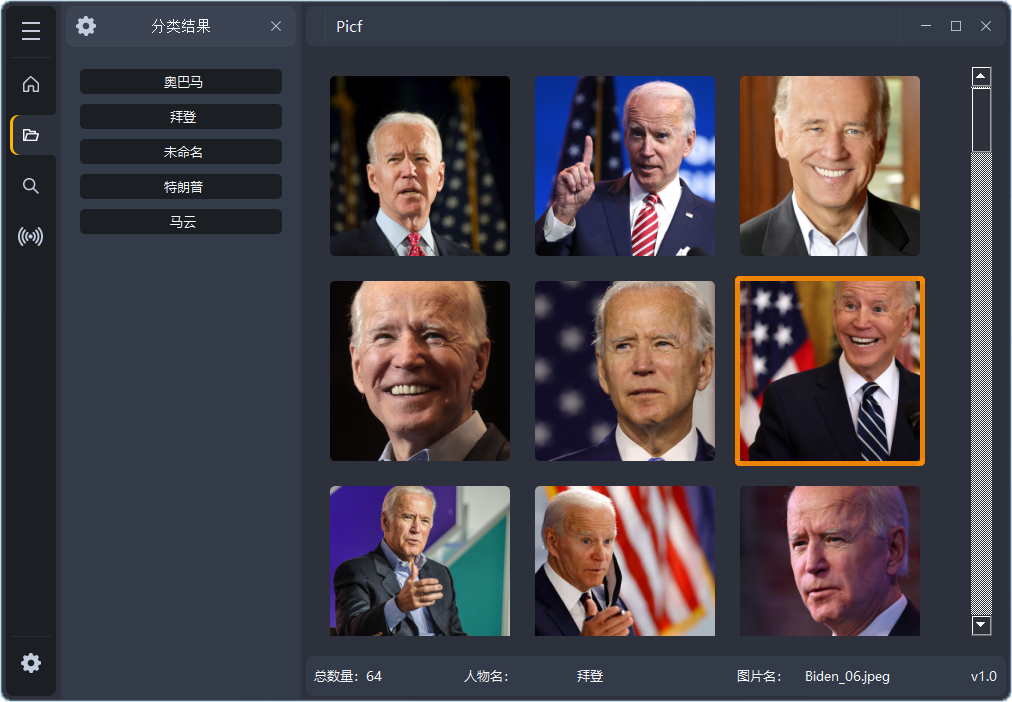
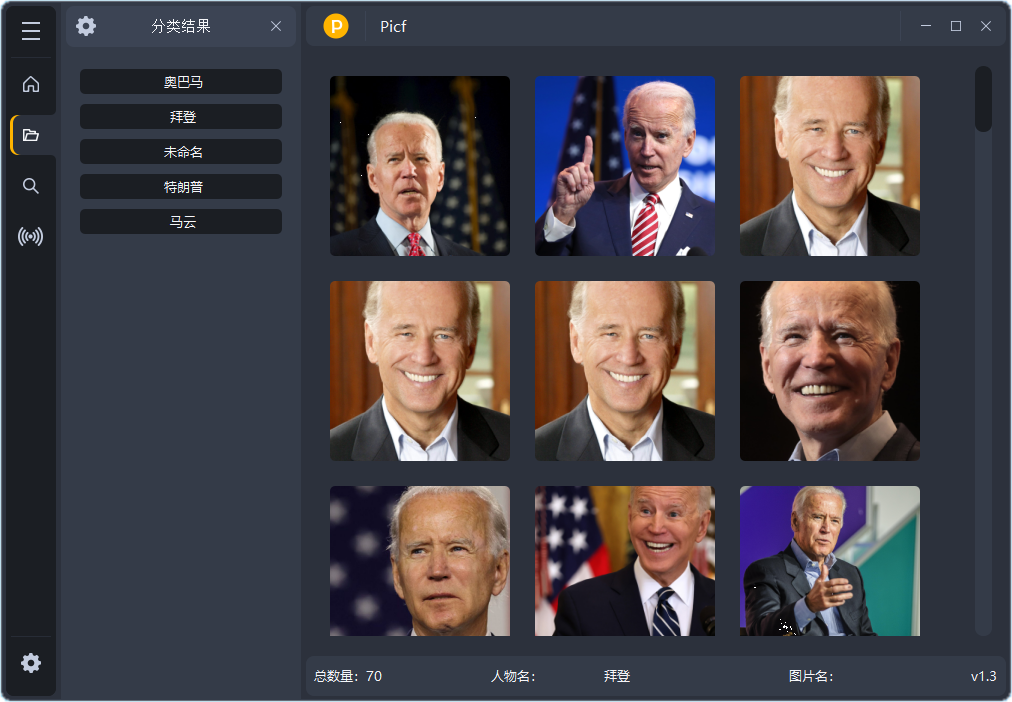
#93 解决了issue #2 #4 的问题，更新了 README.md 的图片

diff --git a/gui/uis/windows/main_window/functions_main_window.py b/gui/uis/windows/main_window/functions_main_window.py
@@ -222,7 +222,7 @@ class MainFunctions():
             QApplication.processEvents()
         #self.image_dic[name].setParent(self.ui.load_pages.gridLayout_2)
         self.ui.load_pages.gridLayout_2.addWidget(self.image_dic[name])
-        self.ui.load_pages.scrollArea.setVerticalScrollBarPolicy(Qt.ScrollBarAsNeeded)
+        #self.ui.load_pages.scrollArea_1.setVerticalScrollBarPolicy(Qt.ScrollBarAsNeeded)
 
     def load_images(self, paths, image_page):
         for count, path in enumerate(paths):
@@ -299,27 +299,36 @@ class MainFunctions():
             self.ui.credits.image.setText("")
             self.ui.credits.image_title.setText("")
             return None
+        else:
+            name, paths = tuple(self.person_search_result.items())[0]
+            self.ui.credits.copyright_label.setText("总数量：{}".format(len(paths)))
+            self.ui.credits.person.setText("人物名：")
+            self.ui.credits.person_name.setText(name)
+            self.ui.credits.person_name.setFocusPolicy(Qt.NoFocus)
+            self.ui.credits.person_name.setReadOnly(True)
+            self.ui.credits.image.setText("图片名：")
+            self.ui.credits.image_title.setText("")
         
         if not self.search_changed:
             return None
 
         self.search_changed = False
         try:
-            self.scrollArea_4_WidgetContents.setParent(None)
-            #self.ui.load_pages.scrollArea_4.removeWidget(self.scrollArea_4_WidgetContents)
+            self.scrollArea_2_WidgetContents.setParent(None)
+            self.ui.load_pages.scrollArea_2.removeWidget(self.scrollArea_2_WidgetContents)
         except AttributeError:
             pass
 
-        self.scrollArea_4_WidgetContents = QWidget()
-        self.scrollArea_4_WidgetContents.setObjectName(u"scrollArea_4_WidgetContents")
-        self.scrollArea_4_WidgetContents.setGeometry(QRect(0, 0, 100, 30))
-        self.scrollArea_4_WidgetContents.setStyleSheet(u"background: transparent;")
-        self.scrollArea_4_layout = QVBoxLayout(self.scrollArea_4_WidgetContents)
-        self.scrollArea_4_layout.setSpacing(0)
-        self.scrollArea_4_layout.setObjectName(u"verticalLayout")
-        self.scrollArea_4_layout.setContentsMargins(0, 0, 0, 0)
-        self.ui.load_pages.scrollArea_4.setWidget(self.scrollArea_4_WidgetContents)
-        #self.scrollArea_4_layout.addStretch(50)
+        self.scrollArea_2_WidgetContents = QWidget()
+        self.scrollArea_2_WidgetContents.setObjectName(u"scrollArea_2_WidgetContents")
+        self.scrollArea_2_WidgetContents.setGeometry(QRect(0, 0, 100, 30))
+        self.scrollArea_2_WidgetContents.setStyleSheet(u"background: transparent;")
+        self.scrollArea_2_layout = QVBoxLayout(self.scrollArea_2_WidgetContents)
+        self.scrollArea_2_layout.setSpacing(0)
+        self.scrollArea_2_layout.setObjectName(u"verticalLayout")
+        self.scrollArea_2_layout.setContentsMargins(0, 0, 0, 0)
+        self.ui.load_pages.scrollArea_2.setWidget(self.scrollArea_2_WidgetContents)
+        #self.scrollArea_2_layout.addStretch(50)
 
         self.ui.credits.copyright_label.setText("正在加载图片")
         self.ui.credits.person.setText("")
@@ -345,9 +354,9 @@ class MainFunctions():
             self.search_target_lable.setText("所选照片")
             self.search_target_lable.setStyleSheet(u"font-family:Microsoft Yahei;font-size: 14pt")
             self.search_target_lable.setAlignment(Qt.AlignCenter)
-            self.scrollArea_4_layout.addWidget(self.search_target_lable)
+            self.scrollArea_2_layout.addWidget(self.search_target_lable)
 
-            self.scrollArea_4_layout.addWidget(self.target_image_box)
+            self.scrollArea_2_layout.addWidget(self.target_image_box)
         except AttributeError:
 
             #print("还未选择图片")
@@ -359,18 +368,15 @@ class MainFunctions():
         self.search_result_lable.setText("搜索结果")
         self.search_result_lable.setStyleSheet(u"font-family:Microsoft Yahei;font-size: 14pt")
         self.search_result_lable.setAlignment(Qt.AlignCenter)
-        self.scrollArea_4_layout.addWidget(self.search_result_lable)
-        self.scrollArea_4_layout.update()
-        self.scrollArea_4_WidgetContents.update()
-        self.ui.load_pages.scrollArea_4.update()
+        self.scrollArea_2_layout.addWidget(self.search_result_lable)
+        self.scrollArea_2_layout.update()
+        self.scrollArea_2_WidgetContents.update()
+        self.ui.load_pages.scrollArea_2.update()
 
 
         #print(self.person_search_result)
         image_page = PyImagePage()
-
-
         for name, paths in self.person_search_result.items():
-
             for path in paths:
                 path = os.path.normpath(os.path.join(self.settings['image_path'], path))
                 image_box = PyImage(path)
@@ -379,7 +385,7 @@ class MainFunctions():
                 image_page.flow_layout.addWidget(image_box)
                 image_page.button_box.addButton(image_box.checkbox)
                 image_page.flow_layout.update()
-                self.scrollArea_4_layout.update()
+                self.scrollArea_2_layout.update()
                 #QApplication.processEvents()
             self.ui.credits.copyright_label.setText("总数量：{}".format(len(paths)))
             self.ui.credits.person.setText("人物名：")
@@ -389,10 +395,9 @@ class MainFunctions():
             self.ui.credits.image.setText("图片名：")
             self.ui.credits.image_title.setText("")
 
-
-        self.scrollArea_4_layout.addWidget(image_page)
-        self.scrollArea_4_layout.addStretch()
-        self.scrollArea_4_layout.setSpacing(20)
+        self.scrollArea_2_layout.addWidget(image_page)
+        self.scrollArea_2_layout.addStretch()
+        self.scrollArea_2_layout.setSpacing(20)
 
     def load_duplicate_result(self):
         ########################################################################
@@ -443,22 +448,22 @@ class MainFunctions():
         #########################################################################
         # ADD Pics
         #########################################################################
-        self.scrollArea_5_WidgetContents = QWidget()
-        self.scrollArea_5_WidgetContents.setObjectName(u"scrollArea_5_WidgetContents")
-        self.scrollArea_5_WidgetContents.setGeometry(QRect(0, 0, 100, 30))
-        self.scrollArea_5_WidgetContents.setStyleSheet(u"background: transparent;")
-        self.ui.load_pages.scrollArea_5.setWidget(self.scrollArea_5_WidgetContents)
-        self.scrollArea_5_layout = QVBoxLayout(self.scrollArea_5_WidgetContents)
-        self.scrollArea_5_layout.setSpacing(0)
-        self.scrollArea_5_layout.setObjectName(u"verticalLayout")
-        self.scrollArea_5_layout.setContentsMargins(0, 0, 0, 0)
-        self.scrollArea_5_layout.setSpacing(20)
+        self.scrollArea_3_WidgetContents = QWidget()
+        self.scrollArea_3_WidgetContents.setObjectName(u"scrollArea_3_WidgetContents")
+        self.scrollArea_3_WidgetContents.setGeometry(QRect(0, 0, 100, 30))
+        self.scrollArea_3_WidgetContents.setStyleSheet(u"background: transparent;")
+        self.ui.load_pages.scrollArea_3.setWidget(self.scrollArea_3_WidgetContents)
+        self.scrollArea_3_layout = QVBoxLayout(self.scrollArea_3_WidgetContents)
+        self.scrollArea_3_layout.setSpacing(0)
+        self.scrollArea_3_layout.setObjectName(u"verticalLayout")
+        self.scrollArea_3_layout.setContentsMargins(0, 0, 0, 0)
+        self.scrollArea_3_layout.setSpacing(20)
 
         try:
             for paths in self.person_duplicate_result:
                 image_page = PyImagePage()
                 image_page.button_box.setExclusive(False)
-                self.scrollArea_5_layout.addWidget(image_page)
+                self.scrollArea_3_layout.addWidget(image_page)
                 for path in paths:
                     path = os.path.normpath(os.path.join(self.settings['image_path'], path))
                     image_box = PyImage(path)
@@ -466,7 +471,7 @@ class MainFunctions():
                     image_page.flow_layout.addWidget(image_box)
                     image_page.button_box.addButton(image_box.checkbox)
                     image_page.flow_layout.update()
-                    self.scrollArea_5_layout.update()
+                    self.scrollArea_3_layout.update()
                 self.image_pages.append(image_page)
             QApplication.processEvents()
             """
@@ -500,10 +505,10 @@ class MainFunctions():
                 image_page.flow_layout.removeWidget(checked_widget)
                 image_page.flow_layout.update()
                 QApplication.processEvents()
-            # 如果image_page中的图片为零，从scrollArea_5_layout中移除image_page
+            # 如果image_page中的图片为零，从scrollArea_3_layout中移除image_page
             if image_page.flow_layout.count() == 0:
                 image_page.setParent(None)
-                self.scrollArea_5_layout.removeWidget(image_page)
+                self.scrollArea_3_layout.removeWidget(image_page)
                 image_page_to_delete.append(image_page)
                 QApplication.processEvents()
         for image_page in image_page_to_delete:

diff --git a/gui/uis/pages/ui_main_pages.py b/gui/uis/pages/ui_main_pages.py
@@ -157,12 +157,12 @@ class Ui_MainPages(object):
 "}")
         self.page_3_layout = QVBoxLayout(self.page_3)
         self.page_3_layout.setObjectName(u"page_3_layout")
-        self.scrollArea = QScrollArea(self.page_3)
-        self.scrollArea.setObjectName(u"scrollArea")
-        self.scrollArea.setStyleSheet(u"background: transparent;")
-        self.scrollArea.setFrameShape(QFrame.NoFrame)
-        self.scrollArea.setHorizontalScrollBarPolicy(Qt.ScrollBarAsNeeded)
-        self.scrollArea.setWidgetResizable(True)
+        self.scrollArea_1= QScrollArea(self.page_3)
+        self.scrollArea_1.setObjectName(u"scrollArea")
+        self.scrollArea_1.setStyleSheet(u"background: transparent;")
+        self.scrollArea_1.setFrameShape(QFrame.NoFrame)
+        self.scrollArea_1.setVerticalScrollBarPolicy(Qt.ScrollBarAsNeeded)
+        self.scrollArea_1.setWidgetResizable(True)
         self.scrollAreaWidgetContents = QWidget()
         self.scrollAreaWidgetContents.setObjectName(u"scrollAreaWidgetContents")
         self.scrollAreaWidgetContents.setGeometry(QRect(0, 0, 100, 30))
@@ -171,9 +171,9 @@ class Ui_MainPages(object):
         self.gridLayout_2.setSpacing(0)
         self.gridLayout_2.setObjectName(u"gridLayout_2")
         self.gridLayout_2.setContentsMargins(0, 0, 0, 0)
-        self.scrollArea.setWidget(self.scrollAreaWidgetContents)
+        self.scrollArea_1.setWidget(self.scrollAreaWidgetContents)
 
-        self.page_3_layout.addWidget(self.scrollArea)
+        self.page_3_layout.addWidget(self.scrollArea_1)
 
         self.pages.addWidget(self.page_3)
         ############################################################################
@@ -184,14 +184,14 @@ class Ui_MainPages(object):
 "}")
         self.page_4_layout = QVBoxLayout(self.page_4)
         self.page_4_layout.setObjectName(u"page_4_layout")
-        self.scrollArea_4 = QScrollArea(self.page_4)
-        self.scrollArea_4.setObjectName(u"scrollArea_4")
-        self.scrollArea_4.setStyleSheet(u"background: transparent;")
-        self.scrollArea_4.setFrameShape(QFrame.NoFrame)
-        self.scrollArea_4.setHorizontalScrollBarPolicy(Qt.ScrollBarAsNeeded)
-        self.scrollArea_4.setWidgetResizable(True)
+        self.scrollArea_2 = QScrollArea(self.page_4)
+        self.scrollArea_2.setObjectName(u"scrollArea_2")
+        self.scrollArea_2.setStyleSheet(u"background: transparent;")
+        self.scrollArea_2.setFrameShape(QFrame.NoFrame)
+        self.scrollArea_2.setVerticalScrollBarPolicy(Qt.ScrollBarAsNeeded)
+        self.scrollArea_2.setWidgetResizable(True)
 
-        self.page_4_layout.addWidget(self.scrollArea_4)
+        self.page_4_layout.addWidget(self.scrollArea_2)
 
         self.pages.addWidget(self.page_4)
         #############################################################################
@@ -202,20 +202,19 @@ class Ui_MainPages(object):
 "}")
         self.page_5_layout = QVBoxLayout(self.page_5)
         self.page_5_layout.setObjectName(u"page_5_layout")
-        self.scrollArea_5 = QScrollArea(self.page_5)
-        self.scrollArea_5.setObjectName(u"scrollArea_5")
-        self.scrollArea_5.setStyleSheet(u"background: transparent;")
-        self.scrollArea_5.setFrameShape(QFrame.NoFrame)
-        self.scrollArea_5.setHorizontalScrollBarPolicy(Qt.ScrollBarAsNeeded)
-        self.scrollArea_5.setWidgetResizable(True)
+        self.scrollArea_3 = QScrollArea(self.page_5)
+        self.scrollArea_3.setObjectName(u"scrollArea_3")
+        self.scrollArea_3.setStyleSheet(u"background: transparent;")
+        self.scrollArea_3.setFrameShape(QFrame.NoFrame)
+        self.scrollArea_3.setVerticalScrollBarPolicy(Qt.ScrollBarAsNeeded)
+        self.scrollArea_3.setWidgetResizable(True)
 
-        self.page_5_layout.addWidget(self.scrollArea_5)
+        self.page_5_layout.addWidget(self.scrollArea_3)
 
         self.pages.addWidget(self.page_5)
         #############################################################################
 
         self.main_pages_layout.addWidget(self.pages)
-
 
         self.retranslateUi(MainPages)
 

diff --git a/gui/uis/windows/main_window/ui_main.py b/gui/uis/windows/main_window/ui_main.py
@@ -33,6 +33,7 @@ from gui.core.json_themes import Themes
 # IMPORT PY ONE DARK WIDGETS
 # ///////////////////////////////////////////////////////////////
 from gui.widgets import *
+from gui.widgets.py_table_widget import style
 
 # IMPORT SETUP MAIN WINDOW
 # ///////////////////////////////////////////////////////////////
@@ -52,6 +53,8 @@ from gui.widgets.py_credits_bar.py_credits import PyCredits
 
 # PY WINDOW
 # ///////////////////////////////////////////////////////////////
+
+
 class UI_MainWindow(object):
     def setup_ui(self, parent):
         if not parent.objectName():
@@ -293,6 +296,24 @@ class UI_MainWindow(object):
         #  ADD TO LAYOUT
         self.credits_layout.addWidget(self.credits)
 
+        # SET SCROLLBAR STYLE
+        custom_scrollbar_style = style_scrollbar.format(
+            _radius = 8,
+            _bg_color = self.themes["app_color"]["bg_two"],
+            _bg_color_hover = self.themes['app_color']['dark_one'],
+            _bg_color_pressed = self.themes["app_color"]["orange"]
+        )
+
+        self.scrollbar1 = QScrollBar(Qt.Vertical)
+        self.scrollbar2 = QScrollBar(Qt.Vertical)
+        self.scrollbar3 = QScrollBar(Qt.Vertical)
+        self.scrollbar1.setStyleSheet(custom_scrollbar_style)
+        self.scrollbar2.setStyleSheet(custom_scrollbar_style)
+        self.scrollbar3.setStyleSheet(custom_scrollbar_style)
+        self.load_pages.scrollArea_1.setVerticalScrollBar(self.scrollbar1)
+        self.load_pages.scrollArea_2.setVerticalScrollBar(self.scrollbar2)
+        self.load_pages.scrollArea_3.setVerticalScrollBar(self.scrollbar3) 
+
         # ADD WIDGETS TO RIGHT LAYOUT
         # ///////////////////////////////////////////////////////////////
         self.right_app_layout.addWidget(self.title_bar_frame)
@@ -309,3 +330,26 @@ class UI_MainWindow(object):
         # ADD CENTRAL WIDGET AND SET CONTENT MARGINS
         # ///////////////////////////////////////////////////////////////
         parent.setCentralWidget(self.central_widget)
+
+style_scrollbar = '''
+QScrollBar {{
+	border: solid;
+	border-radius: {_radius};	
+	background: {_bg_color};
+}}
+QScrollBar:handle {{
+    border-radius: {_radius};
+	background: {_bg_color_hover};
+}}
+QScrollBar:handle:pressed {{
+	background: {_bg_color_pressed};
+}}
+QScrollBar:add-page,
+QScrollBar:sub-page{{
+    background: transparent;
+}}
+QScrollBar:add-line,
+QScrollBar:sub-line{{
+    background: transparent;
+}}
+'''
